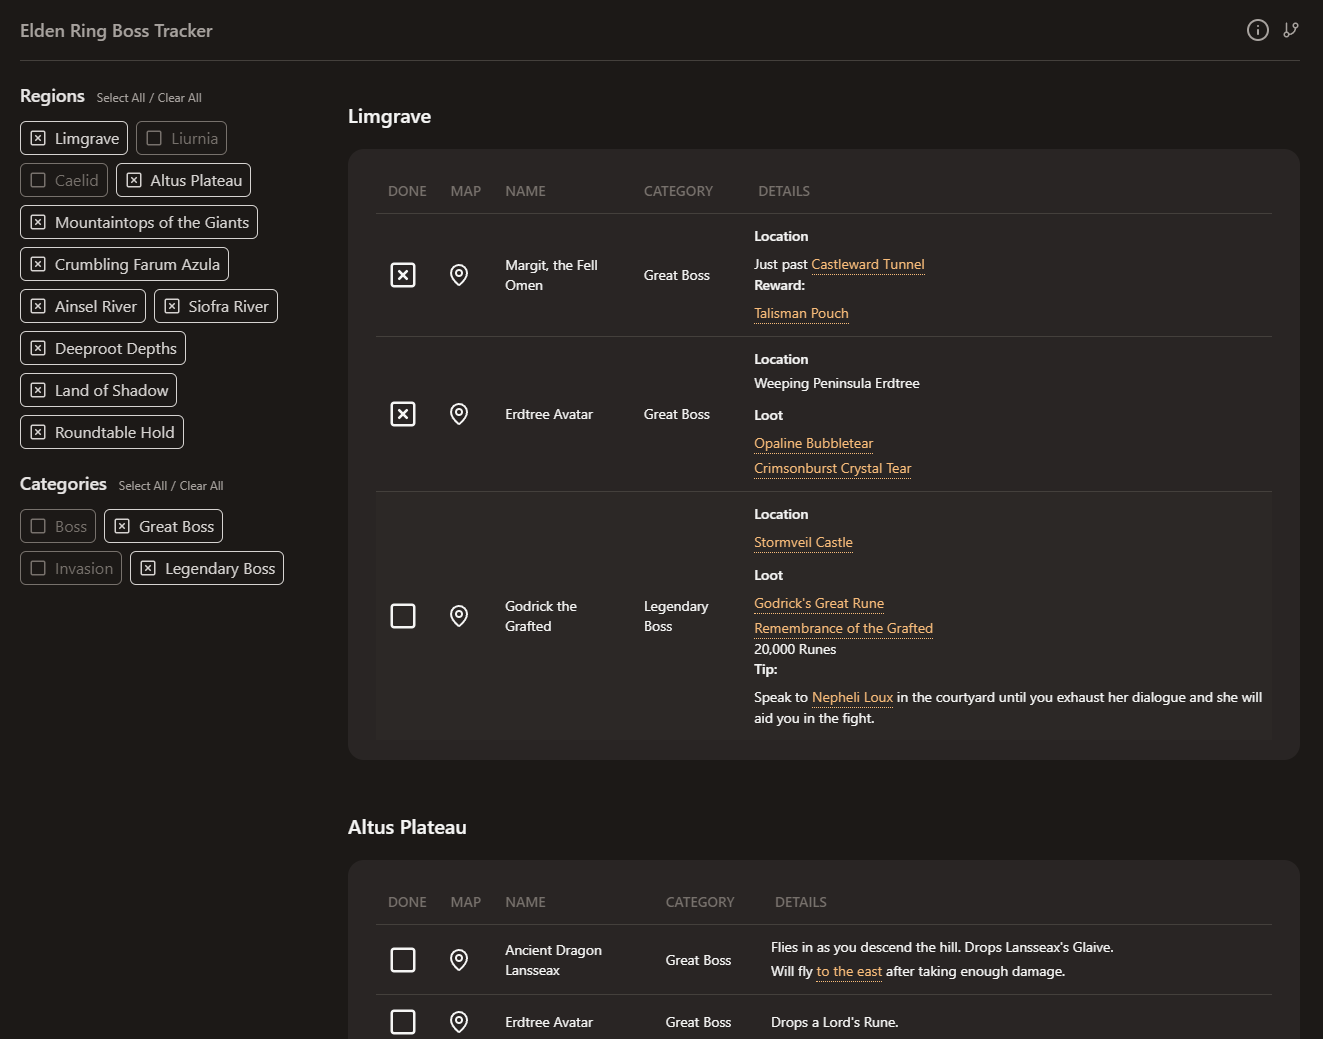
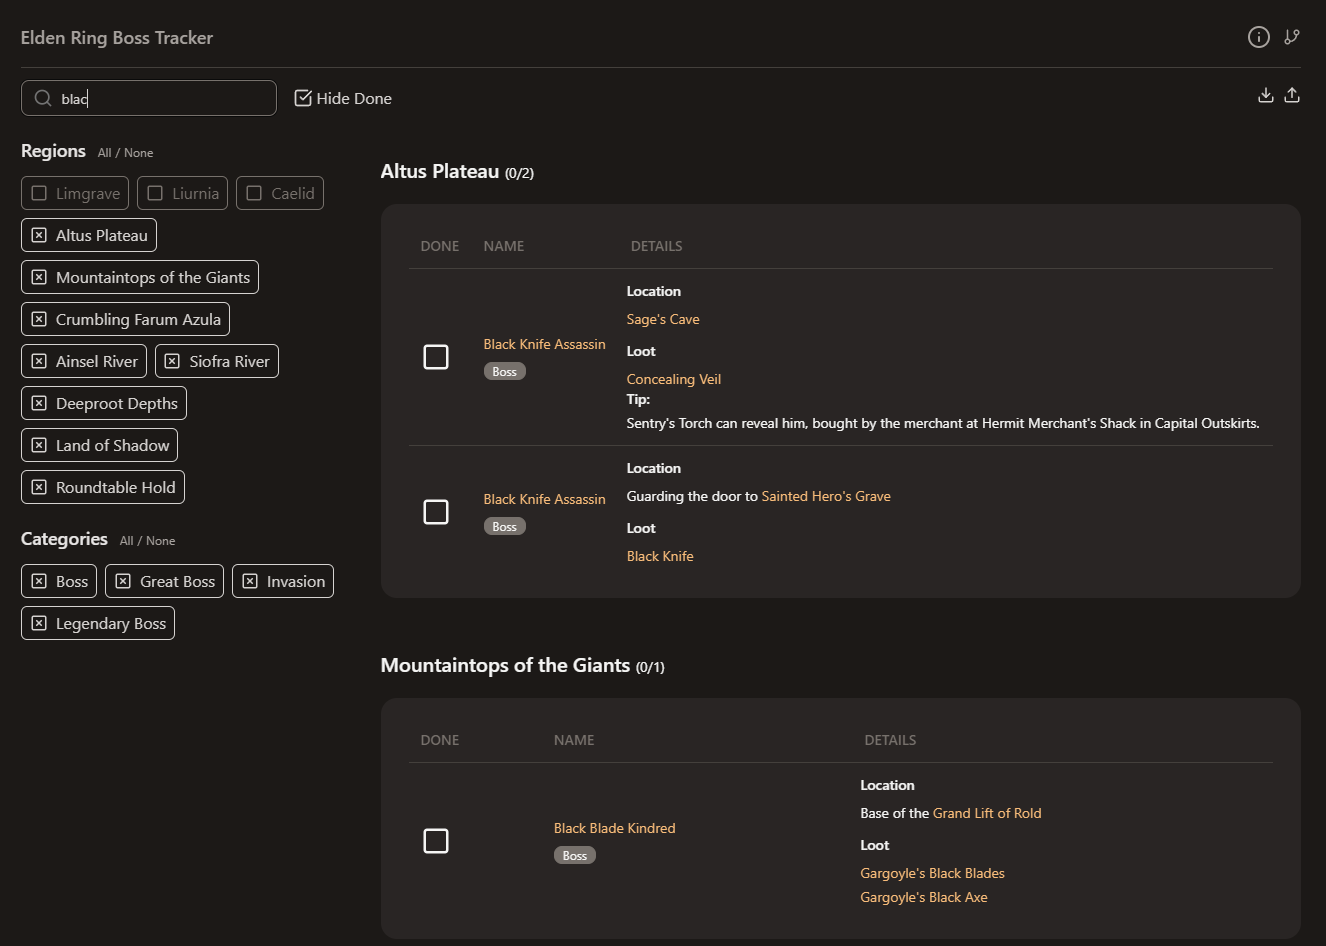
feat: add 'hide done' and region counters

diff --git a/src/stores/bossStore.js b/src/stores/bossStore.js
@@ -8,6 +8,7 @@ export const useBossStore = defineStore('bossStore', {
     selectedRegions: [],
     selectedCategories: [],
     searchQuery: '',
+    hideDone: false,
     originalBosses: [],
   }),
   actions: {
@@ -42,6 +43,18 @@ export const useBossStore = defineStore('bossStore', {
       this.searchQuery = query
       this.filterBosses()
     },
+    setHideDone(value) {
+      this.hideDone = value
+      localStorage.setItem('hideDone', JSON.stringify(value))
+      this.filterBosses()
+    },
+    loadHideDone() {
+      const hideDone = JSON.parse(localStorage.getItem('hideDone'))
+      if (hideDone !== null) {
+        this.hideDone = hideDone
+      }
+      this.filterBosses()
+    },
     filterBosses() {
       this.filteredBosses = this.originalBosses.filter((boss) => {
         const matchesName = this.searchQuery
@@ -51,7 +64,10 @@ export const useBossStore = defineStore('bossStore', {
           this.selectedRegions.length === 0 || this.selectedRegions.includes(boss.region)
         const matchesCategory =
           this.selectedCategories.length === 0 || this.selectedCategories.includes(boss.category)
-        return matchesName && matchesRegion && matchesCategory
+        const isNotDone =
+          !this.hideDone ||
+          !this.foundBosses.has(`${boss.name}-${boss.region_id}-${boss.location_id}`)
+        return matchesName && matchesRegion && matchesCategory && isNotDone
       })
     },
   },

diff --git a/src/components/List.vue b/src/components/List.vue
@@ -17,15 +17,26 @@ onMounted(() => {
   bossStore.setSelectedRegions(storedRegions ?? bossStore.allRegions);
   bossStore.setSelectedCategories(storedCategories ?? bossStore.allCategories);
   bossStore.foundBosses = new Set(storedFound);
+  bossStore.loadHideDone();
 });
 
 const getBossKey = (boss) => `${boss.name}-${boss.region_id}-${boss.location_id}`;
+
+const getDoneCount = (bosses) => {
+  return bosses.filter(boss => bossStore.foundBosses.has(getBossKey(boss))).length;
+};
 </script>
 
 <template>
   <div ref="listContainer" class="flex flex-grow flex-col gap-3 overflow-y-auto">
     <div v-for="(bosses, region) in bossStore.filteredBossesByRegion" :key="region">
-      <h2 class="text-stone-100 text-xl font-semibold my-5">{{ region }}</h2>
+      <h2 class="text-stone-100 text-xl font-semibold my-5">
+        {{ region }}
+
+        <span class="font-normal text-sm">
+          ({{ getDoneCount(bosses) }}/{{ bosses.length }})
+        </span>
+      </h2>
       <div class="bg-stone-800 text-stone-100 py-1 px-3 xl:py-5 xl:px-7 flex flex-grow flex-col mb-5 rounded-2xl">
         <Table>
           <TableHeader class="uppercase">

diff --git a/src/components/HideDone.vue b/src/components/HideDone.vue
@@ -1,0 +1,25 @@
+<script setup>
+import { computed, onMounted } from 'vue';
+import { useBossStore } from '@/stores/bossStore';
+import { Square, SquareCheckBigIcon } from 'lucide-vue-next';
+
+const bossStore = useBossStore();
+
+const hideDone = computed({
+  get: () => bossStore.hideDone,
+  set: (value) => {
+    bossStore.setHideDone(value);
+  },
+});
+
+const toggleHideDone = () => {
+  hideDone.value = !hideDone.value;
+};
+</script>
+
+<template>
+  <div class="flex items-center cursor-pointer text-stone-300 min-w-40" @click="toggleHideDone">
+    <component :is="hideDone ? SquareCheckBigIcon : Square" :size="20" class="mr-1" />
+    <span>Hide Done</span>
+  </div>
+</template>

diff --git a/src/components/Options.vue b/src/components/Options.vue
@@ -2,11 +2,15 @@
 import Export from '@/components/Export.vue';
 import Import from '@/components/Import.vue';
 import Search from '@/components/Search.vue';
+import HideDone from '@/components/HideDone.vue';
 </script>
 
 <template>
   <div class="flex space-between items-center mb-5">
-    <Search />
+    <div class="flex flex-1 gap-4">
+      <Search />
+      <HideDone />
+    </div>
 
     <div class="flex gap-2 my-1 flex-1 justify-end">
       <Export />

diff --git a/src/components/Search.vue b/src/components/Search.vue
@@ -16,7 +16,7 @@ const searchQuery = computed({
 </script>
 
 <template>
-  <div class="relative w-full items-center text-stone-300 max-w-64">
+  <div class="relative w-full items-center text-stone-300  min-w-48 max-w-64">
     <Input type="text" v-model="searchQuery" placeholder="Search for a boss..."
       class="pl-10 bg-stone-900 border border-stone-500 rounded-lg" />
     <span class="absolute start-0 inset-y-0 flex items-center justify-center pl-3">

diff --git a/README.md b/README.md
@@ -5,7 +5,7 @@ DLC). In total, this game features 272 + 62 bosses, and keeping track of all eve
 impossible. Hopefully this tool will help you navigate the game a bit better without spoiling away any
 progression.
 
-This tool leverages MapGenie's resources but removes tracking limits.
+This tool leverages MapGenie's resources but removes tracking limits. It also includes some other handy features, like a search filter and, since it relies on your browser's local storage, an import and export mechanism so you can send it to other devices if needed.
 
 You can use it at <https://elden-ring-boss-tracker.vercel.app/>.
 
